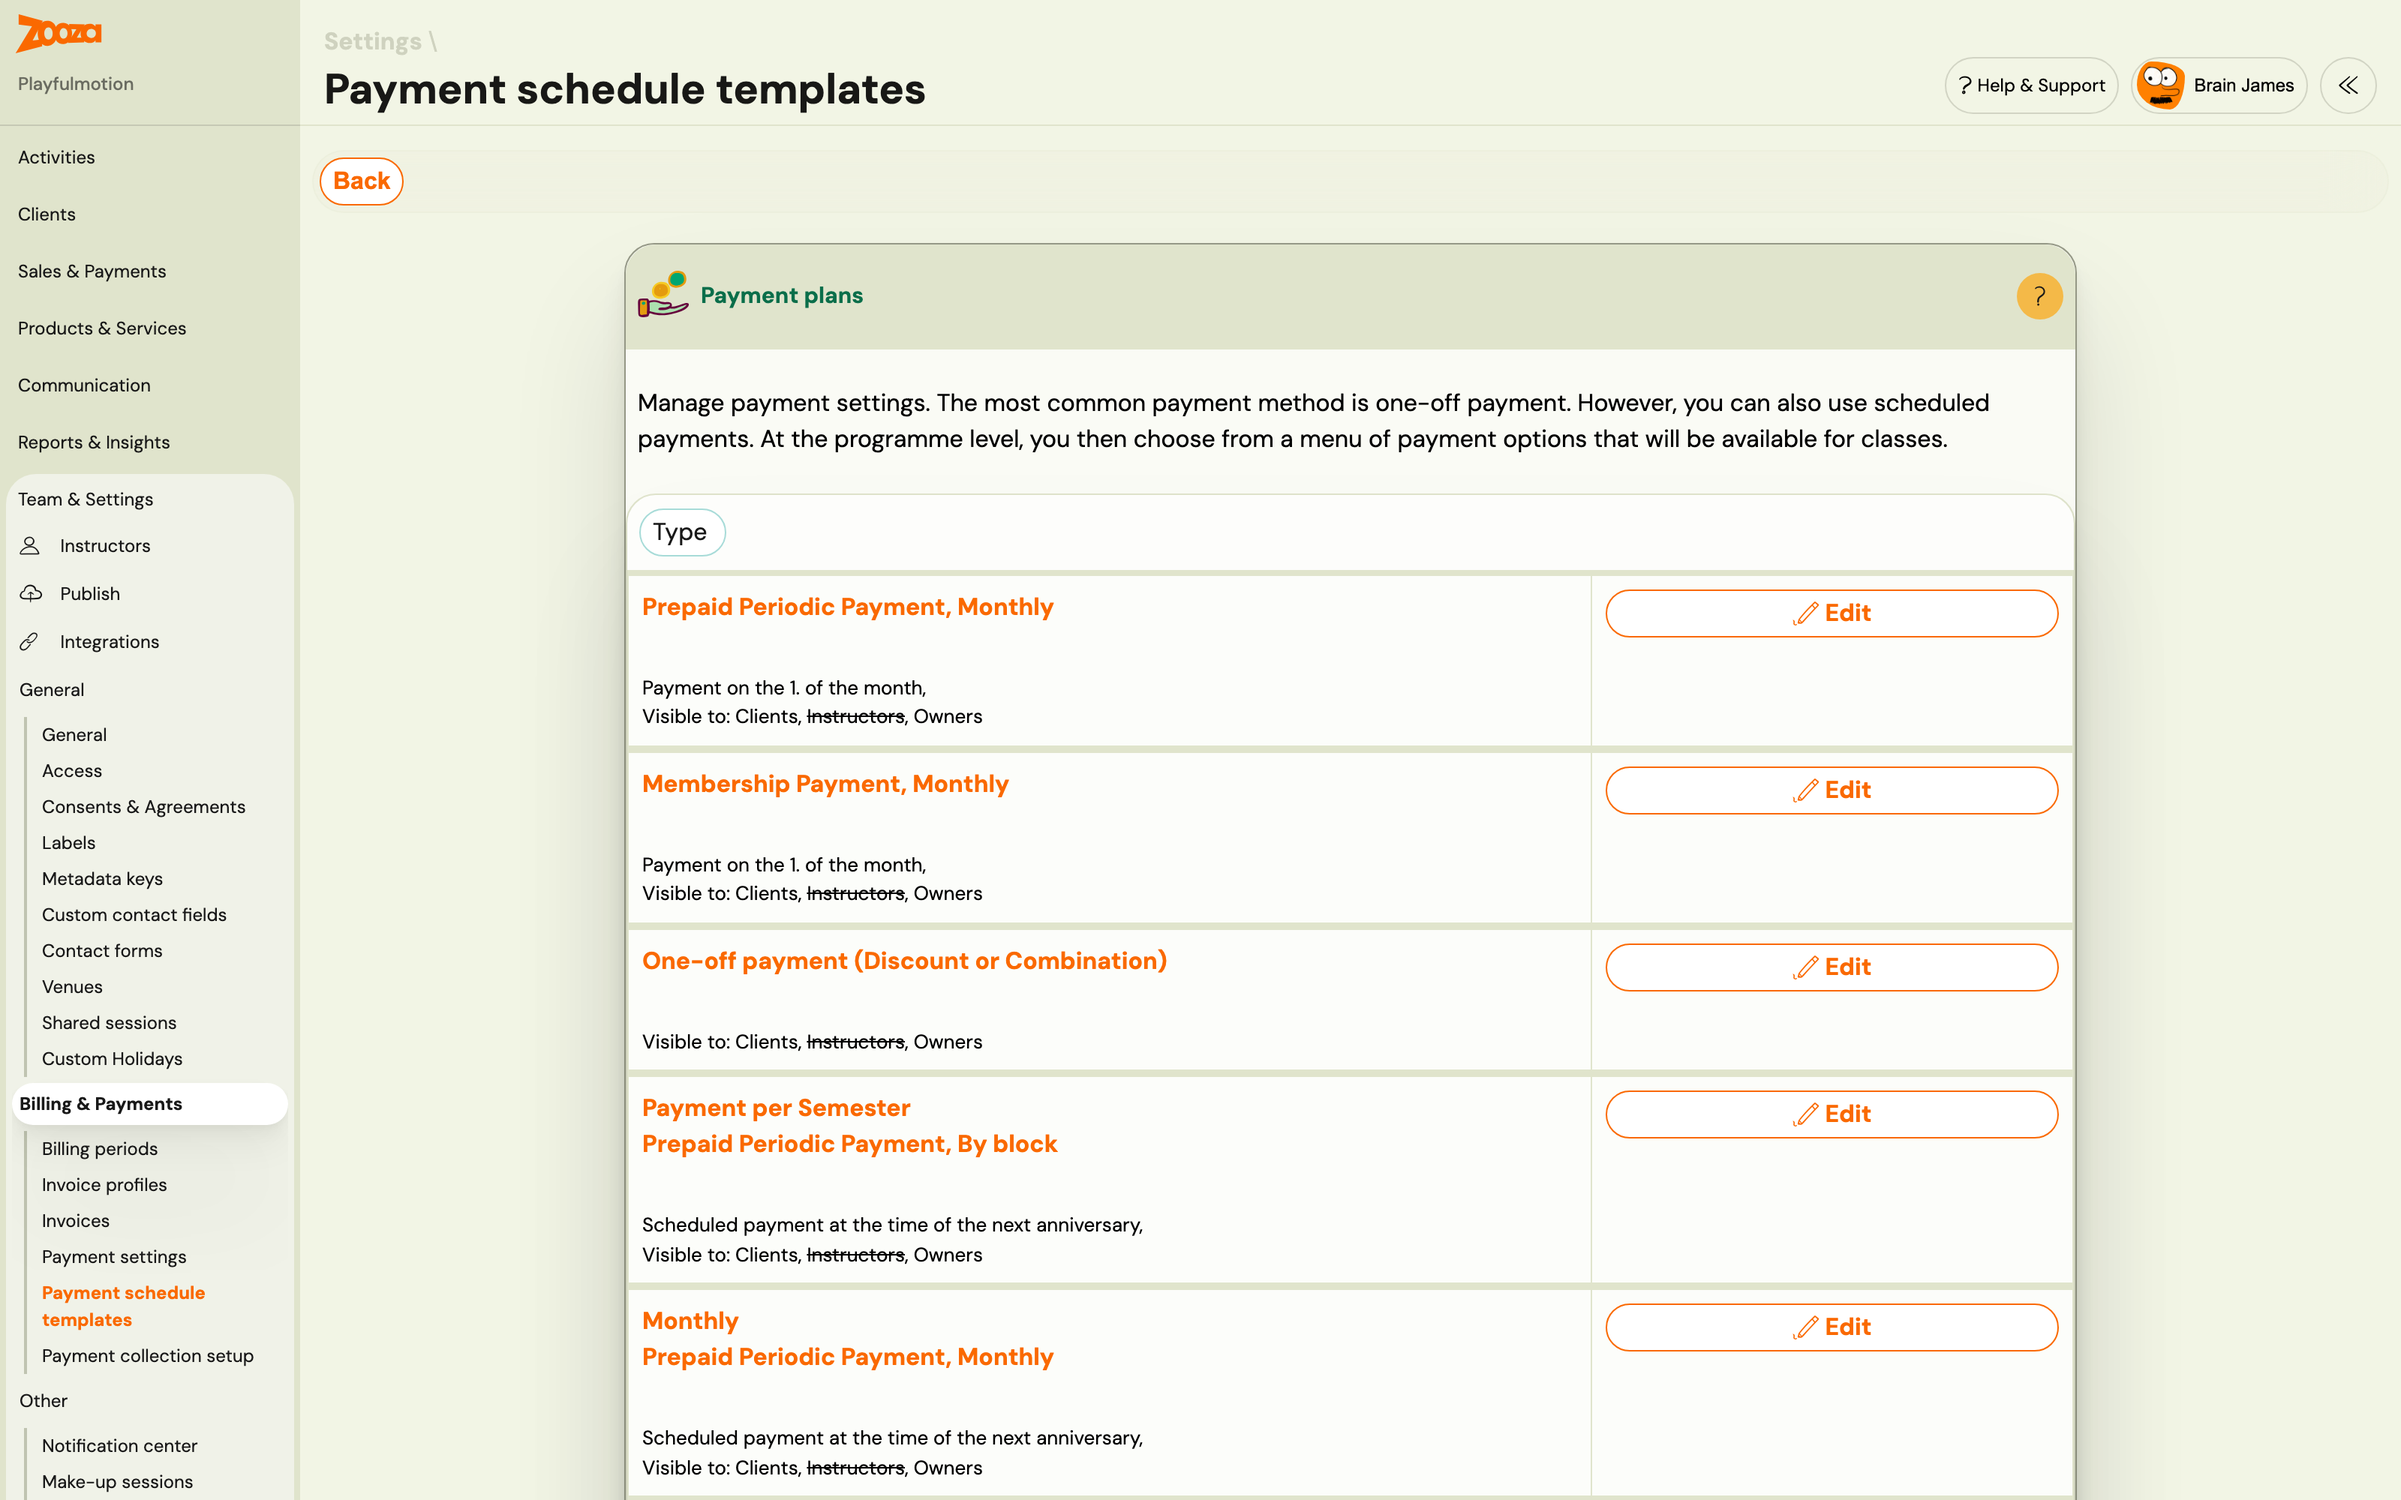
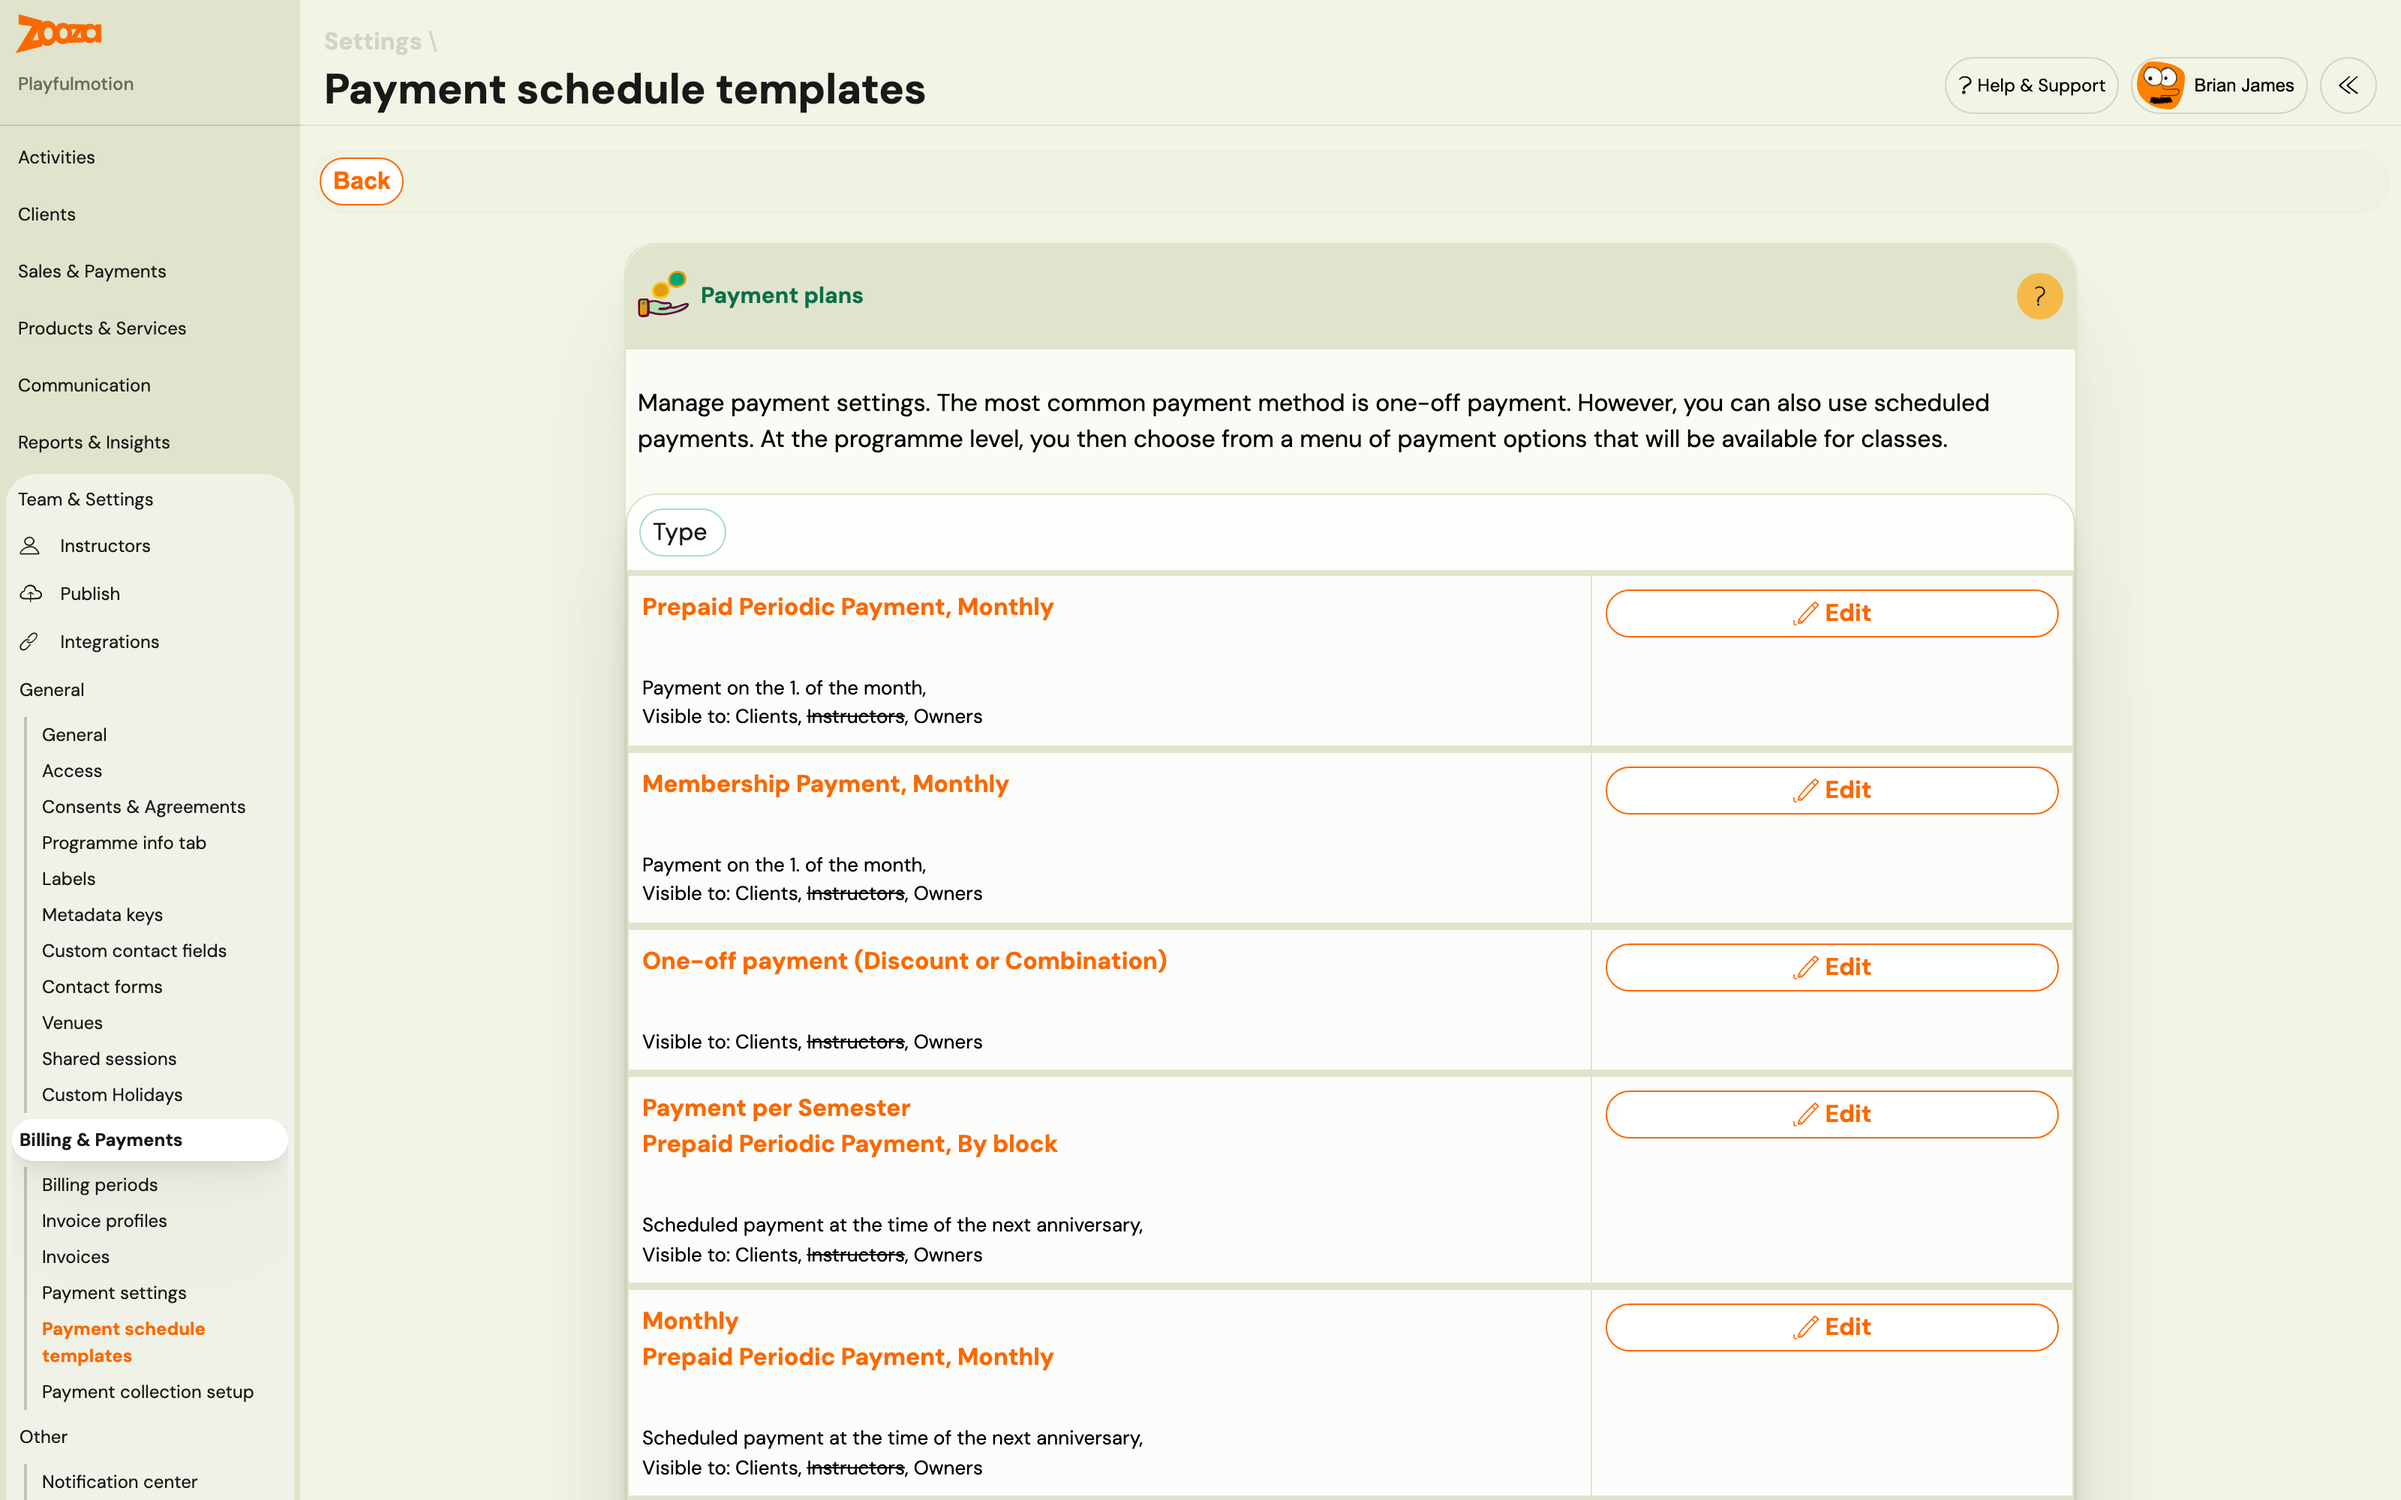
docs: first reshot screenshot from the live account, and a brace that would have broken the build
Logged into Playfulmotion and replaced the payment schedule templates
screenshot in payment-templates-creation - eight months old, Slovak-era. The
new one shows what the list actually gives you now: each template's billing
day and who it is visible to, with anyone it is hidden from struck through.
Rewrote the surrounding text to match, since the instruction said "click the
pen icon" and the control is a labelled Edit button.

Also fixes invoice-number-series.md, pushed earlier today: its image alt text
contained {SER}{N} outside backticks, which MDX reads as a JS variable. That
fails the Cloudflare build, so the site would have stopped deploying on the
next push. Caught by seo_check; the braces in the body were already safely in
backticks, only the alt text was bare.

Changed region(s): [[0.0, 0.558, 0.125, 0.992]]

diff --git a/content/guides/payment-templates-creation.md b/content/guides/payment-templates-creation.md
@@ -11,7 +11,7 @@ status: published
 source_legacy_path: legacy/0086_Welcome to Zooza.html
 source_language: en
 needs_screenshot_replacement: true
-last_converted: "2026-10-24"
+last_converted: "2026-11-06"
 related_articles: ["price-and-payment-setup","membership-fee-setup","automatic-payment-reminders","session-payment-adjustments","billable-sessions","payments-and-billing-faq"]
 ---
 <!-- REVIEW: add all types of prepaid payment frequencies -->
@@ -126,9 +126,11 @@ Use it for a multi-day discount: Tuesday alone at one price, Tuesday plus Saturd
 
 In the payment settings, you can edit individual templates, set their visibility to clients/instructors or delete a template. You can also quickly and easily activate the template on the programmes of your choice. To change and modify the template or activate it on the programme, please follow these steps:
 
-- In the list of payment templates, click the pen icon next to the template you want to edit.
+- Go to **Settings → Billing & Payments → Payment schedule templates** and click **Edit** on the template you want to change.
 
-![Payment schedule templates list with an Edit button per template](../../assets/images/payment-templates-creation-09.png)
+![The Payment schedule templates list: each template with its billing day and who it is visible to, and an Edit button](../../assets/images/payment-templates-creation-09.png)
+
+Each row shows the template's name and type, when it bills — *Payment on the 1. of the month*, or *Scheduled payment at the time of the next anniversary* — and **Visible to**, with anyone it is hidden from struck through.
 
 - In template editing you have the option to set the visibility of the template, i.e. what class of people will be able to use this template – Clients, Instructors or both.1. Clients – you choose the option to have the template visible to clients directly when they register on your site. 2. Instructors – visibility for instructors means that the instructor will also be able to assign bookings to a given template
 

diff --git a/content/setup/invoice-number-series.md b/content/setup/invoice-number-series.md
@@ -74,7 +74,7 @@ A few consequences worth knowing:
    | `Next number` | The `{N}` value the next invoice in this series gets. Set it when you continue a series started elsewhere. |
    | `Invoice label` | Replaces the item description on invoices in this series. Leave it empty to keep the profile's default description. |
 
-   ![Add series form with name Holiday club, series code 2120, template {SER}{N} and counter width 0](../../assets/images/invoice-number-series-02.png)
+   ![Add series form with name Holiday club, series code 2120, the series-and-number template, and counter width 0](../../assets/images/invoice-number-series-02.png)
 
 4. Check **Will produce** — it shows the exact number the next invoice will get.
 5. Choose the **Programmes**, **Billing periods** and **Products** this series applies to. You can pick several of each.
